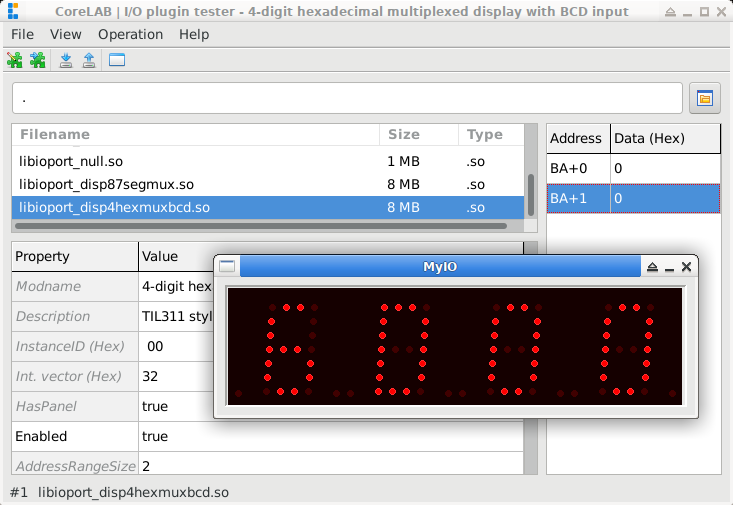
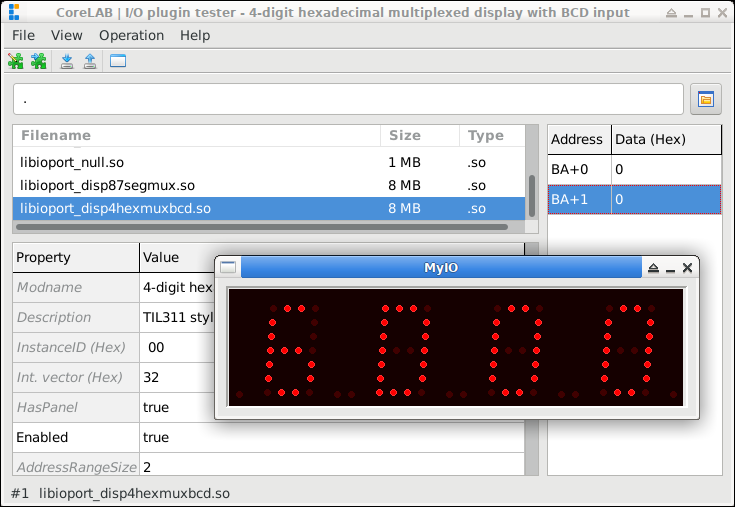
260808

diff --git a/README.md b/README.md
@@ -129,11 +129,11 @@ in mind:
 
 ### Project Management
 
-CoreLAB uses a project-based workflow. A project contains not only program code
-but also the complete simulation environment, including created CPUs, memories,
-peripherals, their interconnections, and associated files and settings. This
-allows different developments or experiments to be managed independently from one
-another.
+CoreLAB uses a simple directory-based project structure. A project directory can
+contain all related files—such as optional environment setup scripts, saved state
+snapshots, program code, and data streams. The simulation environment can also be
+built manually, meaning none of these files are strictly mandatory. This setup
+keeps experiments independent while fully supporting the use of external files.
 
 ### Modular Architecture
 
@@ -153,8 +153,7 @@ models.
 
 The memory map and I/O address space can be configured freely during simulation.
 Virtual peripherals can be assigned to memory locations or I/O ports in the same
-way as real hardware devices. This makes it possible to model complete systems
-without requiring physical components.
+way as real hardware devices.
 
 ### Debugging Features
 
@@ -164,20 +163,14 @@ register contents, and monitor instruction execution in real time. These feature
 are especially useful for educational purposes and low-level software
 development.
 
-### Bus and System Monitoring
-
-The Bus Monitor and Virtual System Monitor allow users to observe the operation
-of the virtual hardware in real time. Address, data, and control bus activity can
-be monitored, as well as communication between system components. This provides
-visibility into internal system behavior that would often require specialized
-measuring equipment on real hardware.
-
 ### Scripting and Automation
 
-In addition to the graphical interface, the program includes its own command
-interpreter and scripting language. Repetitive tasks, automated tests, and
-measurement procedures can be executed through scripts. This makes it possible to
-reproduce complex hardware configurations and testing environments efficiently.
+The program is primarily operated through its own built-in console command line,
+though a menu is also available. It features a custom command interpreter and
+scripting language. Scripts can be executed directly from the OS shell; when run
+this way, the script automatically builds the execution environment and performs
+all specified operations. This allows for the efficient automation of repetitive
+tasks, tests, and the reproduction of complex hardware configurations.
 
 ### State Saving and Restoration
 
